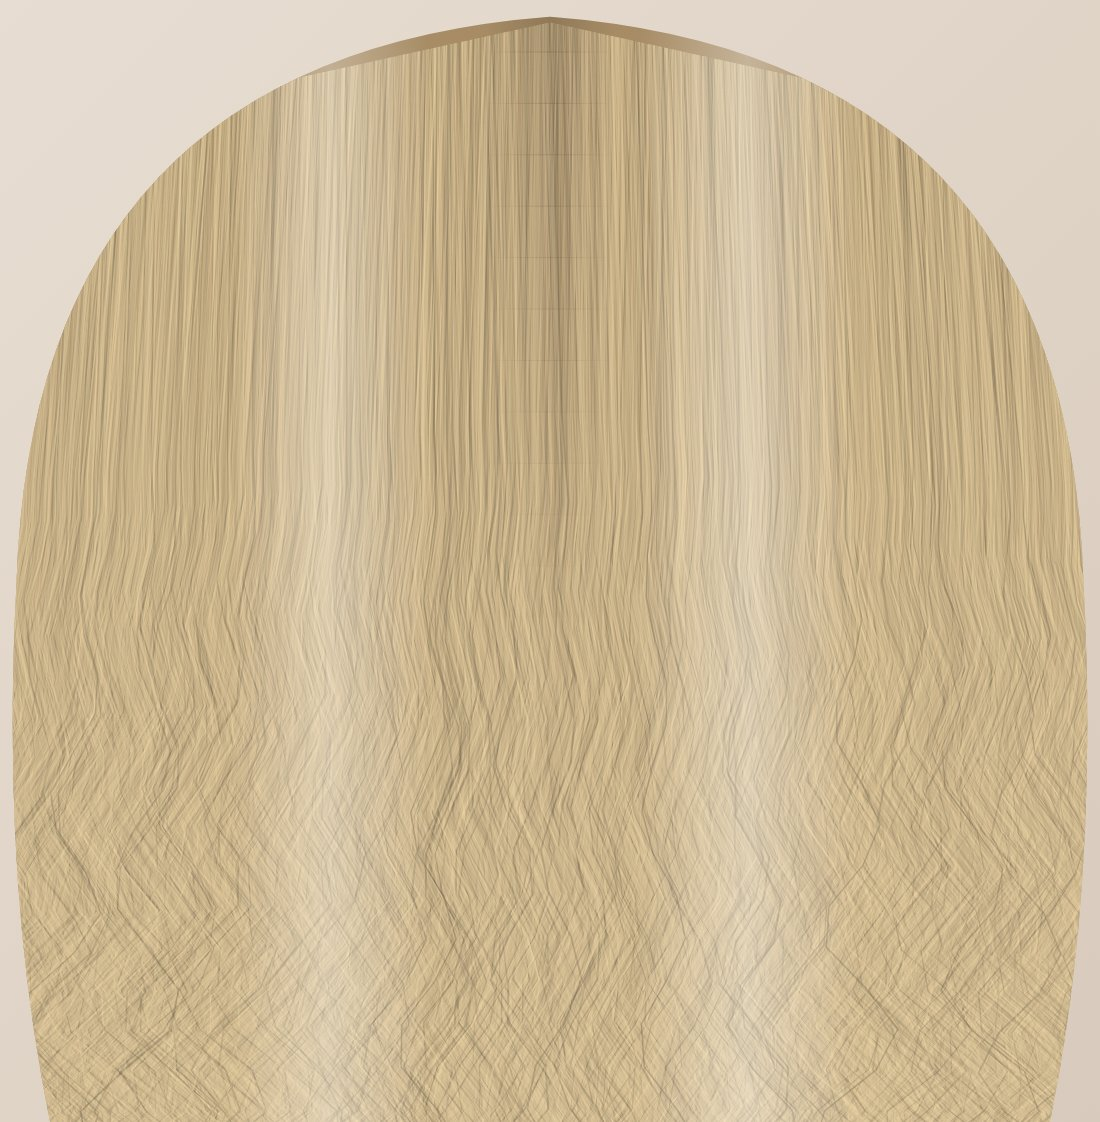
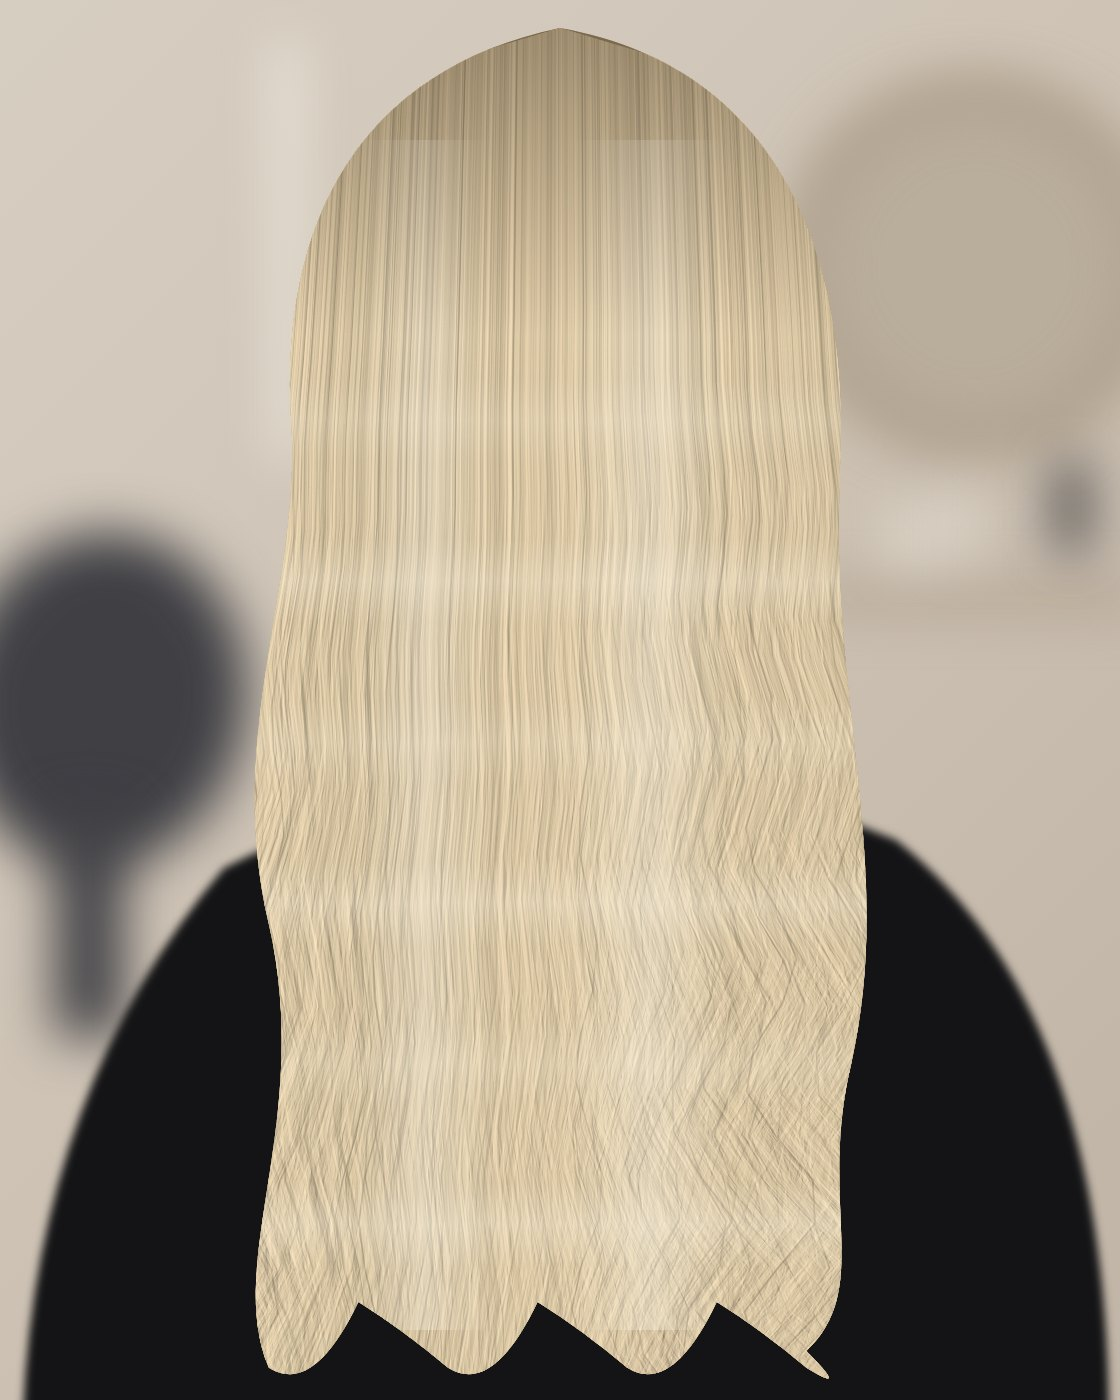
Upgrade blonde waves image and add brunette balayage image
- Regenerate hair-blonde-waves.jpg as a fuller salon scene: blurred
  backdrop with mirror and chair, black cape, long champagne waves
- Add hair-brunette-waves.jpg (espresso with caramel ribbons) and use
  it on the Balayage & Colour Theory card
- Salon Business card now uses the silver lob image instead of
  duplicating the blonde waves

Claude-Session: https://claude.ai/code/session_01NGsYFXdmxGLVVBcoAY1A9p

diff --git a/styles.css b/styles.css
@@ -1452,11 +1452,11 @@ textarea:focus-visible {
 }
 
 .thumb-one { background-image: url("assets/hair-blonde-waves.jpg"); }
-.thumb-two { background-image: url("assets/hair-silver-lob.jpg"); }
+.thumb-two { background-image: url("assets/hair-brunette-waves.jpg"); }
 .thumb-three { background-image: url("assets/hair-blonde-profile.jpg"); }
 .thumb-four { background-image: url("assets/hair-silver-straight.jpg"); }
 .thumb-five { background-image: url("assets/hair-extensions-fitting.jpg"); }
-.thumb-six { background-image: url("assets/hair-blonde-waves.jpg"); }
+.thumb-six { background-image: url("assets/hair-silver-lob.jpg"); }
 
 .course-body {
   display: flex;
